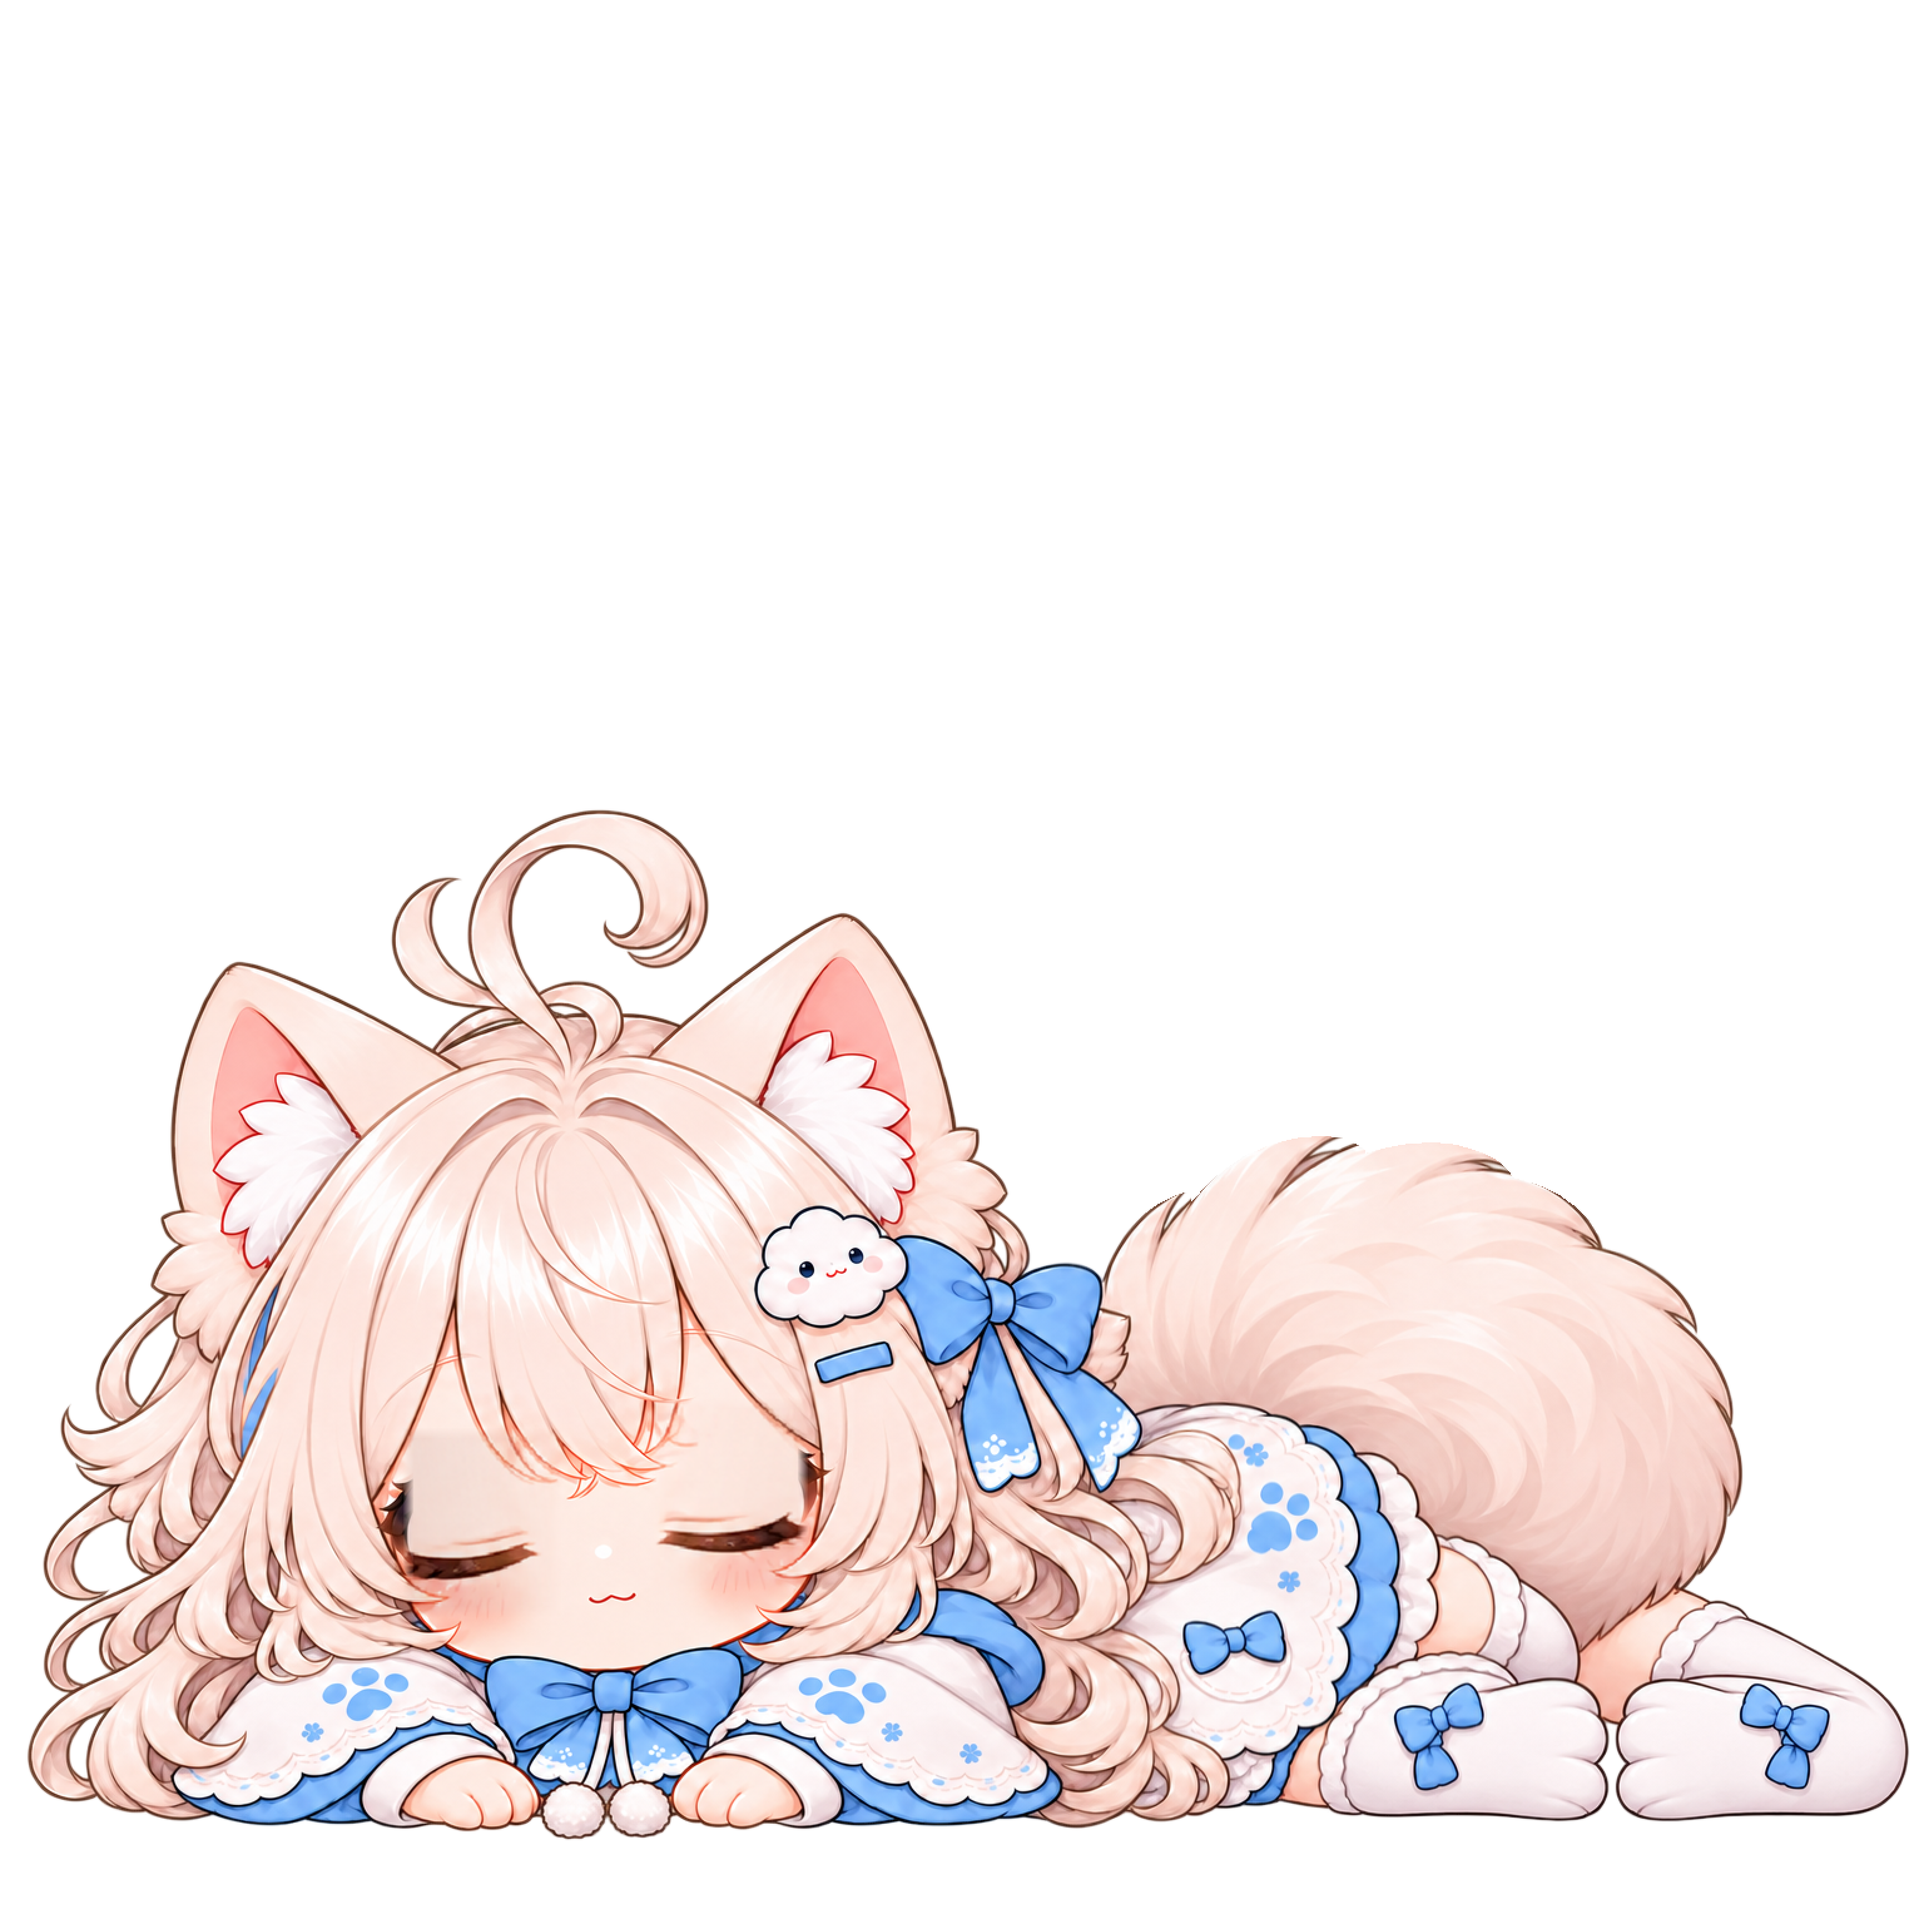
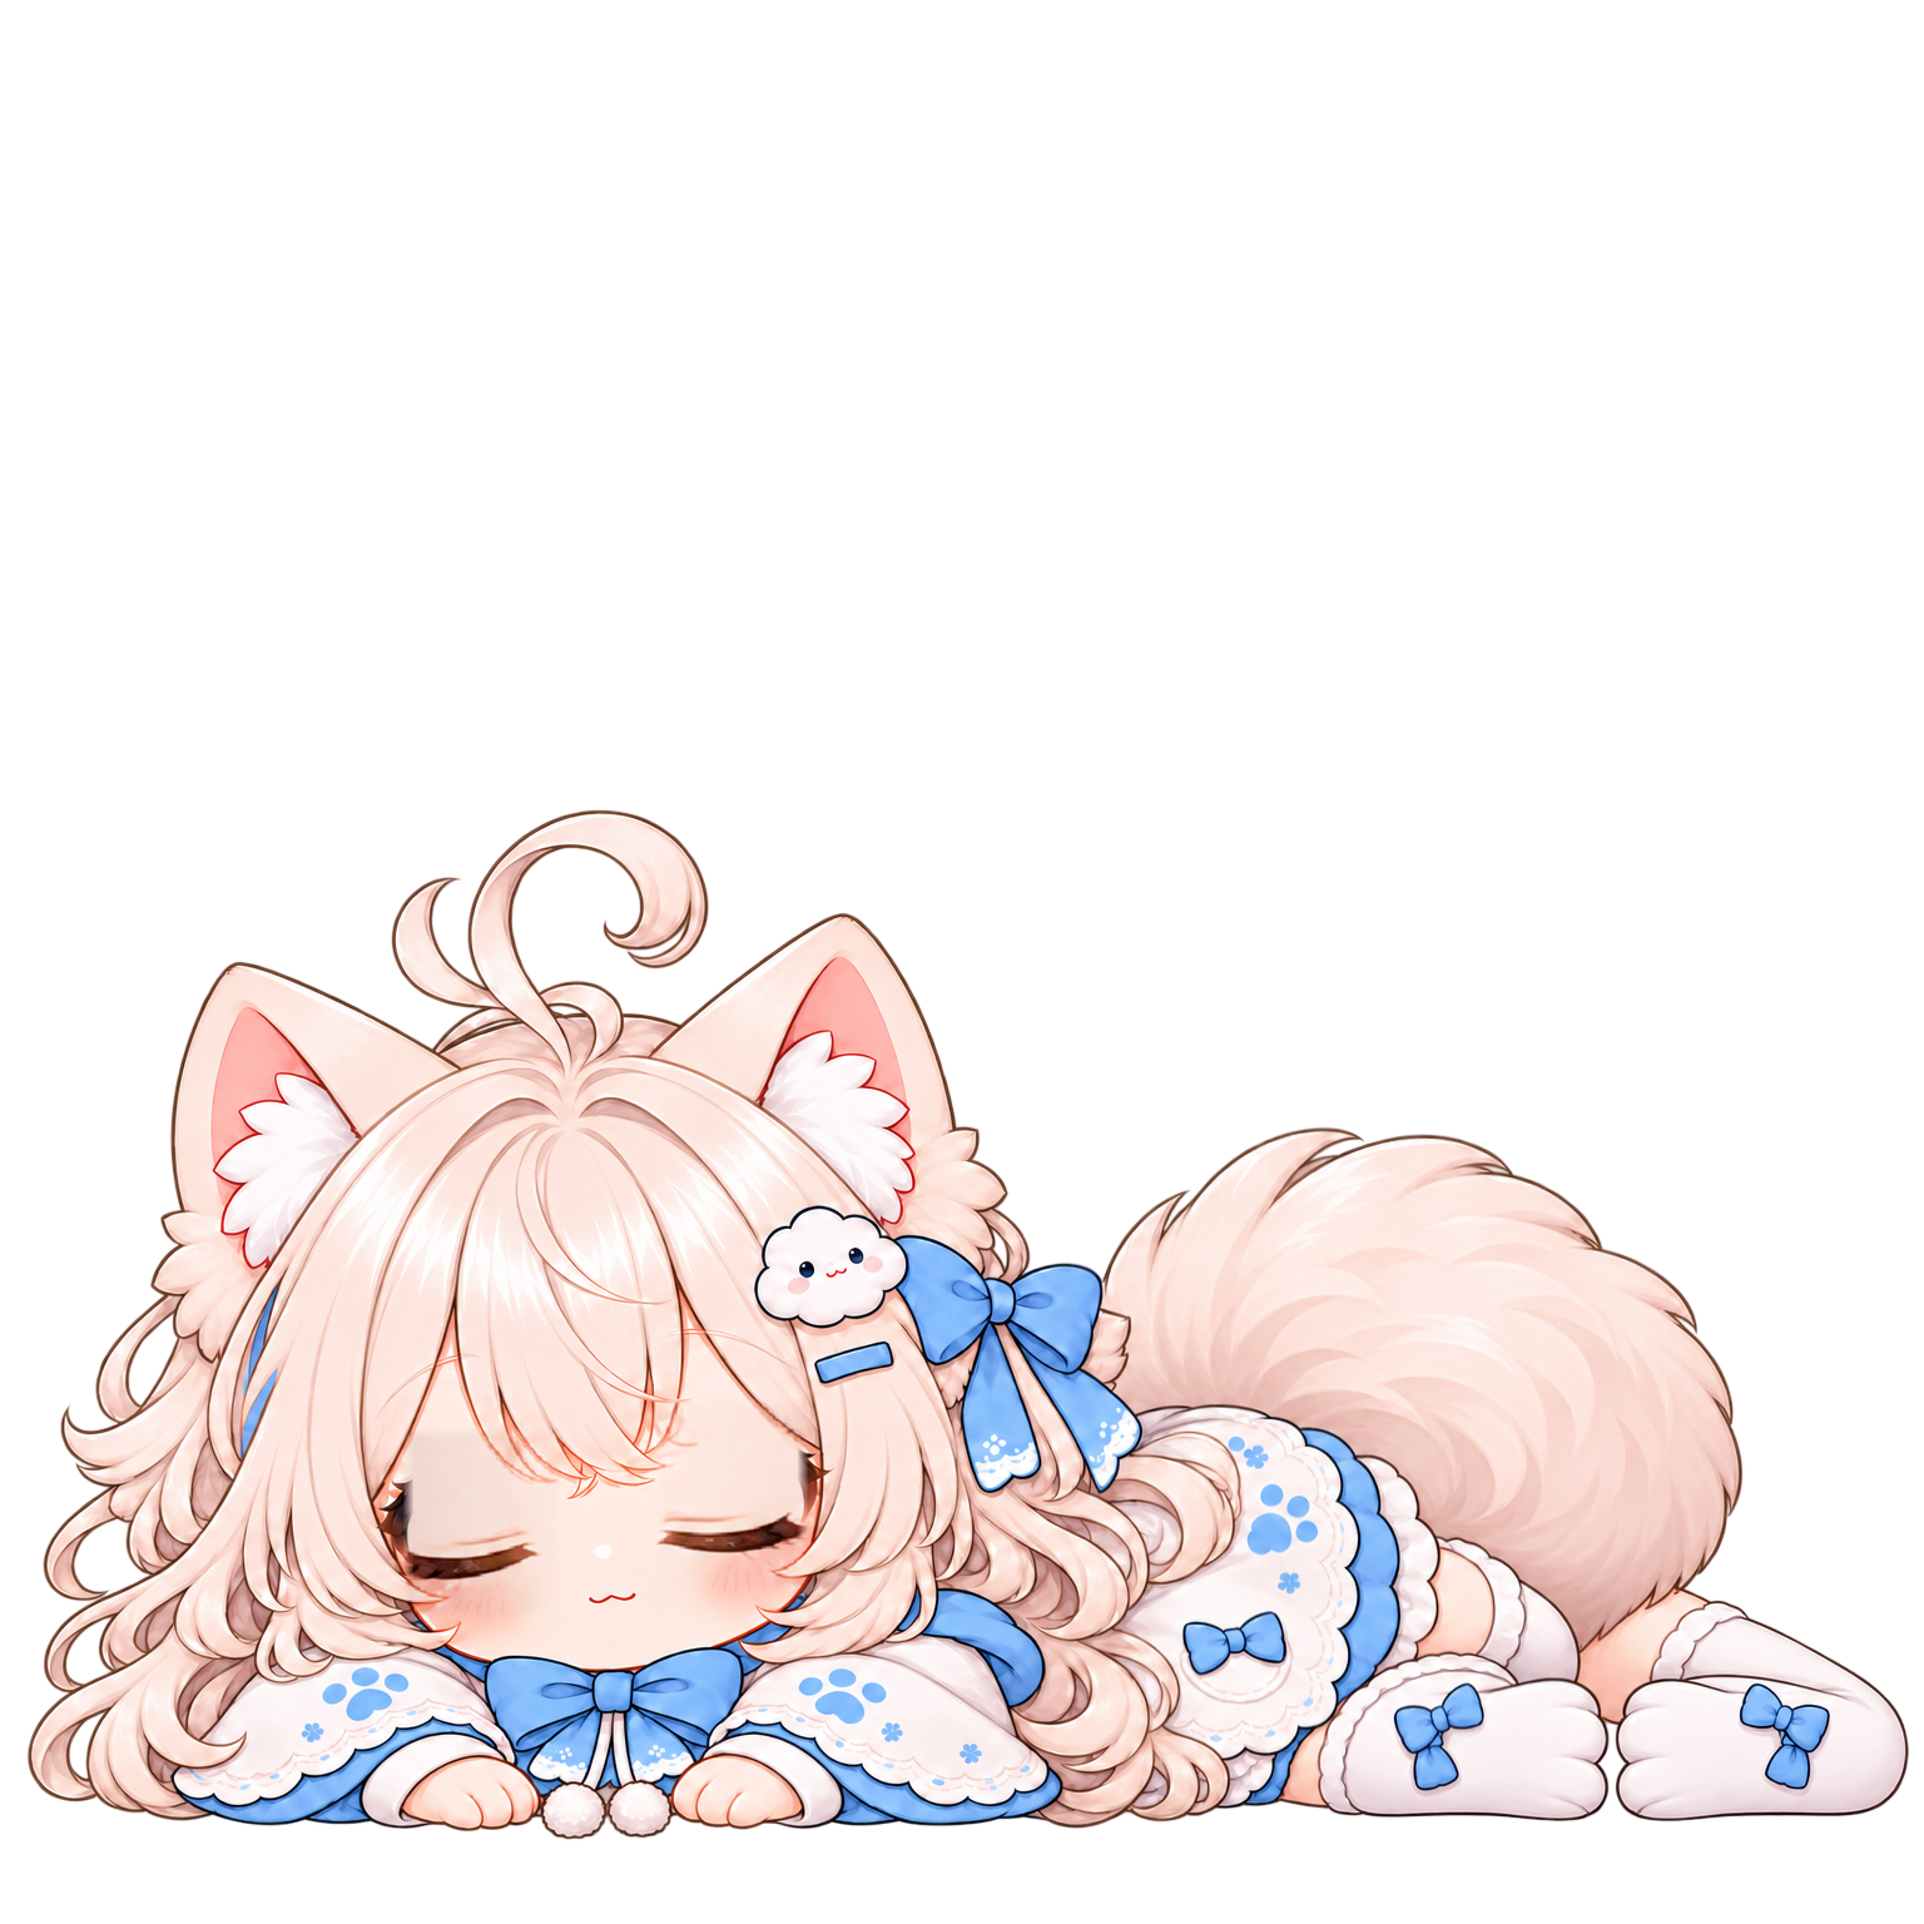
fix(pet-assets): 呼吸帧位移作用到墨迹上沿，C6 改为「允许起伏、禁止整体缩放」
A) derive-sleep.mjs：位移循环起点从 yTop 改为 yTop - ceil(|A|) - featherY - 1，
   即覆盖墨迹上沿之上的行——只写每列墨迹范围内的行时上沿之上的行永远不被写入，
   吸气只能抬 2px。振幅改为对称 ±10 native px（余弦窗两端归零、纵向 smoothstep
   落地侧为 0、腹部贴地不动、无整体缩放）。实测带中央 x1050..1150 顶边位移
   吸气 +9.8（min 8 / max 10）、呼气 -9.4（min 8 / max 10），两者差 0.4px，
   左右两侧 6.9 / 6.4~6.5。重出两张母版与 native：breath_in 字节变化，
   breath_out 因负位移本就只把上沿拉下、多写的上方行是透明→透明，逐字节不变。

B) check-sleep C6 重写：|Δwidth|/w ≤2% 且 |Δheight|/h ≤2%，且宽高不得同向变化
   >1%（区分「呼吸起伏」与「整体缩放」）；startle 仍按「与 lie 同轮廓」逐值比对。
   C7 升级为「带中央顶边位移 吸气 ≥+8 / 呼气 ≤-8，幅度差 ≤4px，左右差 ≤4px」。
   C6b（区域并集外零变化）与 C8（234px 显示尺度 ≥8%）未放宽，实测 C8=8.30%。

C) 三次变异自检（均先同步 manifest，避免 C4 噪声抢戏）：
   M1 吸气帧宽高各放大 3% → C6 命中（dW/dH 同向 +3%）；
   M2 吸气帧=neutral → C6b/C7/C8 命中；M3 startle 区域外点 1 像素 → C6b 命中。
   还原后 7 个文件逐字节一致、重跑退出码 0。

受保护帧 sleep_neutral / sleep_startle / sleep_curled / eye_mask_native 未变。

diff --git a/docs/assets/desktop-pet/poses/sleep/README.md b/docs/assets/desktop-pet/poses/sleep/README.md
@@ -14,7 +14,7 @@
 | 惊醒 | `sleep_startle_neutral@2x.png` | 1,717,656 | 见 manifest | `{42,1292,3047,2937}` |
 | 蜷睡 | `sleep_curled@2x.png` | 1,130,741 | 见 manifest | `{88,1726,2987,2935}` |
 
-> 完整 bytes / sha256 / bbox 以 `manifest.json` 为准，并由 `check-sleep.mjs` 逐值复算（C4）。母版合计 **7,907,245 B ≈ 7.54 MB**，未超 §1.8 的 8 MB；5 帧像素各不相同，**没有任何 aliases 复用**（不做假去重）。
+> 完整 bytes / sha256 / bbox 以 `manifest.json` 为准，并由 `check-sleep.mjs` 逐值复算（C4）。母版合计 **7,916,850 B ≈ 7.55 MB**，未超 §1.8 的 8 MB；5 帧像素各不相同，**没有任何 aliases 复用**（不做假去重）。
 
 ```
 sleep/
@@ -45,7 +45,7 @@ sleep/
 | 帧 | 做法 | 关键证据 |
 | --- | --- | --- |
 | 趴睡 | 对 `lie/source/lie_neutral_native.png` 只重绘眼区（参考图 + 眼区蒙版模式），其余像素原样 | 与 lie native 逐像素差异 **38,095 px 全部落在眼区并集 `[322,1116,644,1290]` 内，眼区外 0 px / maxDelta 0** |
-| 呼吸 2 帧 | 只对躯干带 `x 830..1350` 做**局部竖直位移场**（位移场峰值：吸气 +14 / 呼气 −10 native px；墨迹上沿实测只有 +2 / −10，原因见 `manifest.method.breath`），横向余弦窗两端归零、纵向 smoothstep、腹部落地侧位移恒为 0 | 带外 0 px / maxDelta 0；四帧 alpha 外轮廓逐值相同（不是整体缩放）；234px 显示尺度上两帧差 **9.01%** 墨迹 |
+| 呼吸 2 帧 | 只对躯干带 `x 830..1350` 做**局部竖直位移场**（峰值 ±**10** native px，横向 sin² 余弦窗两端归零、纵向 smoothstep、腹部落地侧位移恒为 0）。位移循环**包含墨迹上沿之上的行**（`yStart = yTop - ceil(\|A\|) - featherY - 1`），否则上沿之上的行永远不被写入、吸气抬不起来 | 带外 0 px / maxDelta 0；带中央 `x1050..1150` 顶边实测 **吸气 +9.8 / 呼气 −9.4**（min 8 / max 10，两侧 6.9 / 6.4–6.5）；轮廓尺寸变化 0.00%（C6 允许 ≤2% 起伏但禁止宽高同向变化）；234px 显示尺度上两帧差 **8.30%** 墨迹 |
 | 惊醒 | 眼区整块取 lie native 恢复睁眼 → 虹膜掩膜距离变换后**半径腐蚀 15%**、腾出环带补眼白（眼白取环外亮像素均值）→ 小开口嘴 → 泪滴汗滴 | 眼区/嘴/汗滴三块各自有变化（19041 / 19054 / 416 / 802 px）；眼区蓝色像素比 **0.775**（≈缩 15%） |
 | 蜷睡 | 唯一重新生成的帧：`reference_image_path=sleep_neutral_native.png` 保身份；直出 1774×887（墨迹 1737×725，比例 2.396）→ 预乘 alpha 重采样到 native 1450×605 → 落地线 y=1468 → 2× nearest | 与趴睡 **IoU 0.684**，native bbox 由 1503×823 变 **1450×605**（母版 bbox `{88,1726,2987,2935}`）；母版 2×2 块不一致 0 |
 
@@ -88,10 +88,10 @@ node docs/assets/desktop-pet/poses/sleep/tools/check-sleep.mjs
 | C3 | 可见 bbox 四边留白 ≥8px |
 | C4 | manifest 的 bytes/sha256/bbox 与磁盘逐值一致（母版与 native 都查） |
 | C5 | 母版 = native 的 2× 最近邻：每个 2×2 块四像素相同且等于 native 对应像素 |
-| C6 | neutral / breathIn / breathOut / startle 四帧 alpha 外轮廓**逐值相同**（防整体缩放、防偷偷改轮廓） |
+| C6 | 呼吸帧与 neutral 比：`|Δwidth|/w ≤ 2%` 且 `|Δheight|/h ≤ 2%`，且**宽高不得同向变化 >1%**（「轮廓完全不动」会禁止呼吸，「按比例整体缩放」才是作弊，两者必须能区分）；`startle` 仍按「与 lie 睁眼帧同轮廓」逐值比对 |
 | C6b | 每帧在「作者声明区域并集」之外与 neutral **逐像素零变化**（outsidePixels=0 且 outsideMaxDelta=0） |
-| C7 | 呼吸两帧带内变化 >5000px，且带中央列平均背部上沿吸气高于呼气 >4px（方向对、幅度非零） |
-| C8 | 呼吸两帧在 **234px 显示尺度**差异 ≥8% 墨迹（实测 9.01%） |
+| C7 | 呼吸两帧带内变化 >5000px；带中央 `x1050..1150` 顶边位移 **吸气 ≥ +8 / 呼气 ≤ −8 native px**，且两者幅度差 ≤4px、左右两侧差 ≤4px（对称），腹部贴地带零变化 |
+| C8 | 呼吸两帧在 **234px 显示尺度**差异 ≥8% 墨迹（实测 8.30%） |
 | C9 | 蜷睡与趴睡 IoU<0.75 且 bbox 至少两处不同（实测 IoU 0.684） |
 | C10 | `source/` 直出图+native+蒙版齐全，manifest.sources 与磁盘一致 |
 | C11 | `status === 'awaiting-static-review'` 且 `review.approvedBy === null` |
@@ -102,11 +102,13 @@ node docs/assets/desktop-pet/poses/sleep/tools/check-sleep.mjs
 
 | 变异 | 改坏了什么 | 退出码 | 命中断言 | 还原后 |
 | --- | --- | --- | --- | --- |
-| M1 | 在 startle 声明区域之外（native 100,100）点 1 个像素 | 1 | C2, C4, C6, **C6b** | 退出码 0 ✅ |
-| M2 | 把吸气帧整帧替换成中性帧（等于呼吸振幅归零） | 1 | C4, **C6b, C7, C8** | 退出码 0 ✅ |
-| M3 | 把蜷睡帧整帧替换成趴睡帧（等于没蜷起来） | 1 | C4, **C9** | 退出码 0 ✅ |
+| M1 | 吸气帧**宽高各放大 3%**（用整体缩放冒充呼吸），并同步 manifest | 1 | C3, **C6**, C6b, C7 | 退出码 0 ✅ |
+| M2 | 吸气帧整帧替换成中性帧（呼吸振幅归零），并同步 manifest | 1 | **C6b, C7, C8** | 退出码 0 ✅ |
+| M3 | 在 startle 声明区域之外（native 100,100）点 1 个像素，并同步 manifest | 1 | C2, C6, **C6b** | 退出码 0 ✅ |
 
-还原后逐字节比对三次变异的 8 个文件，全部与备份相同（`restored-all-identical=true`）。C4 同时变红是正确行为：文件一变，manifest 记录就漂了。
+- M1 里 **C6 是主犯**：`dW=+3.00% / dH=+3.00%` 同时超过 2% 且宽高同向增大 >1%，直接判「整体放大」；C3 红是因为放大后左侧墨迹顶到画布外沿、C7 红是因为左右幅度变不对称（+21 vs −9.4）。
+- 三次变异都先 `syncManifest` 把 manifest 数字同步到被改坏的文件，**故意让 C4 保持绿**，这样变红的一定是目标断言而不是「记录漂移」噪声。
+- 还原后 7 个文件（manifest + 3 帧的 native/母版）逐字节与备份相同，重跑退出码 0。
 
 ## 5. 切帧摆放规则（蜷睡帧的 anchor 说明）
 
@@ -119,7 +121,7 @@ node docs/assets/desktop-pet/poses/sleep/tools/check-sleep.mjs
 
 | 项 | 值 |
 | --- | --- |
-| 5 个母版合计 | 7,907,245 B = **7.54 MB**（目标 ≤8 MB ✅） |
+| 5 个母版合计 | 7,916,850 B = **7.55 MB**（目标 ≤8 MB ✅） |
 | 重复存储 | 0（5 帧像素互不相同，没有相同 sha256 的文件，不需要 aliases） |
 | `source/` 合计 | 1,111,666 + 14,104 + 1,534,971 + 各 native ≈ 5.4 MB（直出图与 native 是 C10 要求，未额外压） |
 
